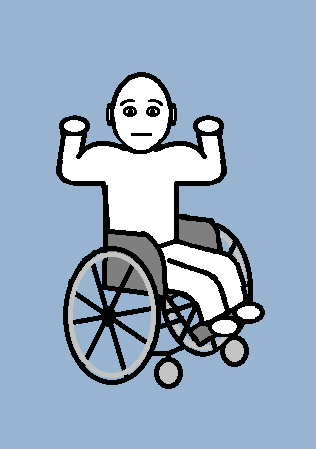
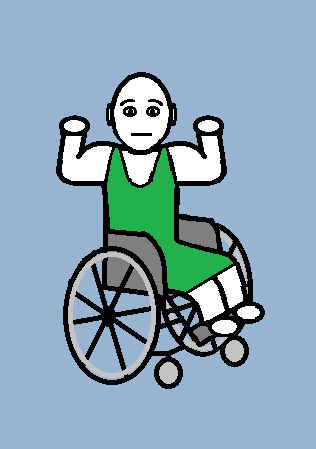
added drawfism dresses

Changed region(s): [[0.3133, 0.3118, 0.7405, 0.6548]]

diff --git a/outfitScreen.html b/outfitScreen.html
@@ -15,67 +15,78 @@
                     <button class="faceOptionButton">None</button>
                     <button class="faceOptionButton" disabled>Option A</button>
                     <button class="faceOptionButton" disabled>Option B</button>
-                    <button class="faceOptionButton" disabled>Option C</button>
+                    <label for="haircolor" class="outfitcolor">Color:</label>
+                    <input type="range" min="1"  max="100" value="50" id="custom-slider-rangeOutfit"  class="faceOptionButton" disabled>
                 </div>
                 <div><label for="pants">Pants:</label>
                     <button class="faceOptionButton">None</button>
                     <button class="faceOptionButton" disabled>Option A</button>
                     <button class="faceOptionButton" disabled>Option B</button>
-                    <button class="faceOptionButton" disabled>Option C</button>
+                    <label for="haircolor" class="outfitcolor">Color:</label>
+                    <input type="range" min="1"  max="100" value="50" id="custom-slider-rangeOutfit"  class="faceOptionButton" disabled>
                 </div>
                 <div><label for="skirts">Skirt:</label>
                     <button class="faceOptionButton">None</button>
                     <button class="faceOptionButton" disabled>Option A</button>
                     <button class="faceOptionButton" disabled>Option B</button>
-                    <button class="faceOptionButton" disabled>Option C</button>
+                    <label for="haircolor" class="outfitcolor">Color:</label>
+                    <input type="range" min="1"  max="100" value="50" id="custom-slider-rangeOutfit"  class="faceOptionButton" disabled>
                 </div>
                 <div><label for="dresses">Dress:</label>
                     <button class="faceOptionButton" onclick="dressClicked(false)" id="noDressButton">None</button>
                     <button class="faceOptionButton" onclick="dressClicked(true)" id="dressButton">Plain Green</button>
                     <button class="faceOptionButton" disabled>Option B</button>
-                    <button class="faceOptionButton" disabled>Option C</button>
+                    <label for="haircolor" class="outfitcolor">Color:</label>
+                    <input type="range" min="1"  max="100" value="50" id="custom-slider-rangeOutfit"  class="faceOptionButton" disabled>
                 </div>
                 <div><label for="suits">Suit:</label>
                     <button class="faceOptionButton">None</button>
                     <button class="faceOptionButton" disabled>Option A</button>
                     <button class="faceOptionButton" disabled>Option B</button>
-                    <button class="faceOptionButton" disabled>Option C</button>
+                    <label for="haircolor" class="outfitcolor">Color:</label>
+                    <input type="range" min="1"  max="100" value="50" id="custom-slider-rangeOutfit"  class="faceOptionButton" disabled>
                 </div>
                 <div><label for="socks">Socks:</label>
                     <button class="faceOptionButton">None</button>
                     <button class="faceOptionButton" disabled>Option A</button>
                     <button class="faceOptionButton" disabled>Option B</button>
-                    <button class="faceOptionButton" disabled>Option C</button>
+                    <label for="haircolor" class="outfitcolor">Color:</label>
+                    <input type="range" min="1"  max="100" value="50" id="custom-slider-rangeOutfit"  class="faceOptionButton" disabled>
                 </div>
                 <div><label for="shoes">Shoes:</label>
                     <button class="faceOptionButton">None</button>
                     <button class="faceOptionButton" disabled>Option A</button>
                     <button class="faceOptionButton" disabled>Option B</button>
-                    <button class="faceOptionButton" disabled>Option C</button>
+                    <label for="haircolor" class="outfitcolor">Color:</label>
+                    <input type="range" min="1"  max="100" value="50" id="custom-slider-rangeOutfit"  class="faceOptionButton" disabled>
                 </div>
                 <div><label for="hats">Hat:</label>
                     <button class="faceOptionButton">None</button>
                     <button class="faceOptionButton" disabled>Option A</button>
                     <button class="faceOptionButton" disabled>Option B</button>
-                    <button class="faceOptionButton" disabled>Option C</button>
+                    <label for="haircolor" class="outfitcolor">Color:</label>
+                    <input type="range" min="1"  max="100" value="50" id="custom-slider-rangeOutfit"  class="faceOptionButton" disabled>
                 </div>
                 <div><label for="purses">Purse:</label>
                     <button class="faceOptionButton">None</button>
                     <button class="faceOptionButton" disabled>Option A</button>
                     <button class="faceOptionButton" disabled>Option B</button>
-                    <button class="faceOptionButton" disabled>Option C</button>
+                    <label for="haircolor" class="outfitcolor">Color:</label>
+                    <input type="range" min="1"  max="100" value="50" id="custom-slider-rangeOutfit"  class="faceOptionButton" disabled>
                 </div>
                 <div><label for="scarfs">Scarf:</label>
                     <button class="faceOptionButton">None</button>
                     <button class="faceOptionButton" disabled>Option A</button>
                     <button class="faceOptionButton" disabled>Option B</button>
-                    <button class="faceOptionButton" disabled>Option C</button>
+                    <label for="haircolor" class="outfitcolor">Color:</label>
+                    <input type="range" min="1"  max="100" value="50" id="custom-slider-rangeOutfit"  class="faceOptionButton" disabled>
                 </div>
                 <div><label for="coats">Coat:</label>
                     <button class="faceOptionButton">None</button>
                     <button class="faceOptionButton" disabled>Option A</button>
                     <button class="faceOptionButton" disabled>Option B</button>
-                    <button class="faceOptionButton" disabled>Option C</button>
+                    <label for="haircolor" class="outfitcolor">Color:</label>
+                    <input type="range" min="1"  max="100" value="50" id="custom-slider-rangeOutfit"  class="faceOptionButton" disabled>
                 </div>
                 <div><label for="presets">Presets:</label>
                     <button class="faceOptionButton">None</button>

diff --git a/style.css b/style.css
@@ -176,7 +176,19 @@ label {
     -webkit-appearance: none;
     appearance: none;
     width: 50%;
-    height: 10px;
+    height: 5px;
+    background: linear-gradient(to right,
+      black, brown, red, orange, yellow, green, blue, indigo, violet, white);
+    outline: none;
+    opacity: 0.8;
+    transition: opacity 0.4s;
+    border-radius: 15px;
+}
+#custom-slider-rangeOutfit {
+    -webkit-appearance: none;
+    appearance: none;
+    width: 30%;
+    height: 5px;
     background: linear-gradient(to right,
       black, brown, red, orange, yellow, green, blue, indigo, violet, white);
     outline: none;
@@ -216,4 +228,8 @@ label {
 .eyeButton {
     height: 10px;
     width: 30px;
+}
+
+.outfitcolor {
+    margin-left: 15px;
 }

diff --git a/extrasScreen.html b/extrasScreen.html
@@ -18,7 +18,8 @@
                 </div>
                 <div><label for="scars">Scars</label>
                     <button class="faceOptionButton">None</button>
-                    <button class="faceOptionButton" disabled>Option A</button>
+                    <button class="faceOptionButton" disabled>Scar 1</button>
+                    <button class="faceOptionButton" disabled>Scar 2</button>
                     <button class="faceOptionButton" disabled>Birth scars</button>
                     <button class="faceOptionButton" disabled>Trans scars</button>
                 </div>
